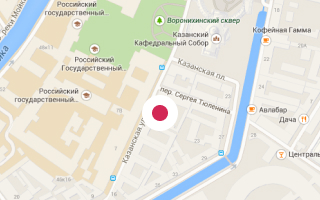
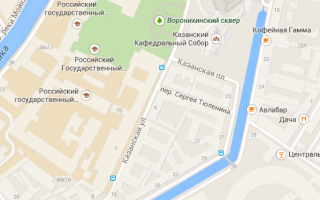
Финальные правки

Changed region(s): [[0.4375, 0.48, 0.5625, 0.66]]

diff --git a/source/index.html b/source/index.html
@@ -158,8 +158,7 @@
                   1,99 USD
                 </span>
               </th>
-              <th>
-                <div class="new-label"></div>
+              <th data-stripe="хит">
                 <span class="slider-tariffs__name">
                   Стандарт
                 </span>
@@ -241,7 +240,10 @@
             </a>
           </p>
           <div class="contacts__map">
-            <div class="point-to-map"></div>
+            <svg width="36" height="36" viewBox="0 0 36 36" fill="none" xmlns="http://www.w3.org/2000/svg">
+              <path d="M18 0C21.5601 0 25.0402 1.05568 28.0003 3.03355C30.9604 5.01141 33.2675 7.82263 34.6298 11.1117C35.9922 14.4008 36.3487 18.02 35.6541 21.5116C34.9596 25.0033 33.2453 28.2106 30.7279 30.7279C28.2106 33.2453 25.0033 34.9596 21.5116 35.6541C18.02 36.3487 14.4008 35.9922 11.1117 34.6298C7.82263 33.2675 5.01141 30.9604 3.03355 28.0003C1.05568 25.0402 0 21.5601 0 18C0 13.2261 1.89642 8.64773 5.27208 5.27208C8.64773 1.89642 13.2261 0 18 0V0Z" fill="white"/>
+              <path d="M18.0102 10C19.5915 10.002 21.1369 10.4727 22.4509 11.3525C23.7649 12.2323 24.7887 13.4818 25.393 14.9432C25.9972 16.4046 26.1548 18.0123 25.8458 19.5632C25.5368 21.1141 24.7751 22.5386 23.6568 23.6568C22.5386 24.7751 21.1141 25.5368 19.5632 25.8458C18.0123 26.1548 16.4046 25.9972 14.9432 25.393C13.4818 24.7887 12.2323 23.7649 11.3525 22.4509C10.4727 21.1369 10.002 19.5915 10 18.0102C10 15.8857 10.8439 13.8483 12.3461 12.3461C13.8483 10.8439 15.8857 10 18.0102 10Z" fill="#D22856"/>
+            </svg>
             <img src="img/map.jpg" width="320" height="200" alt="Карта проезда к офису">
           </div>
         </div>
